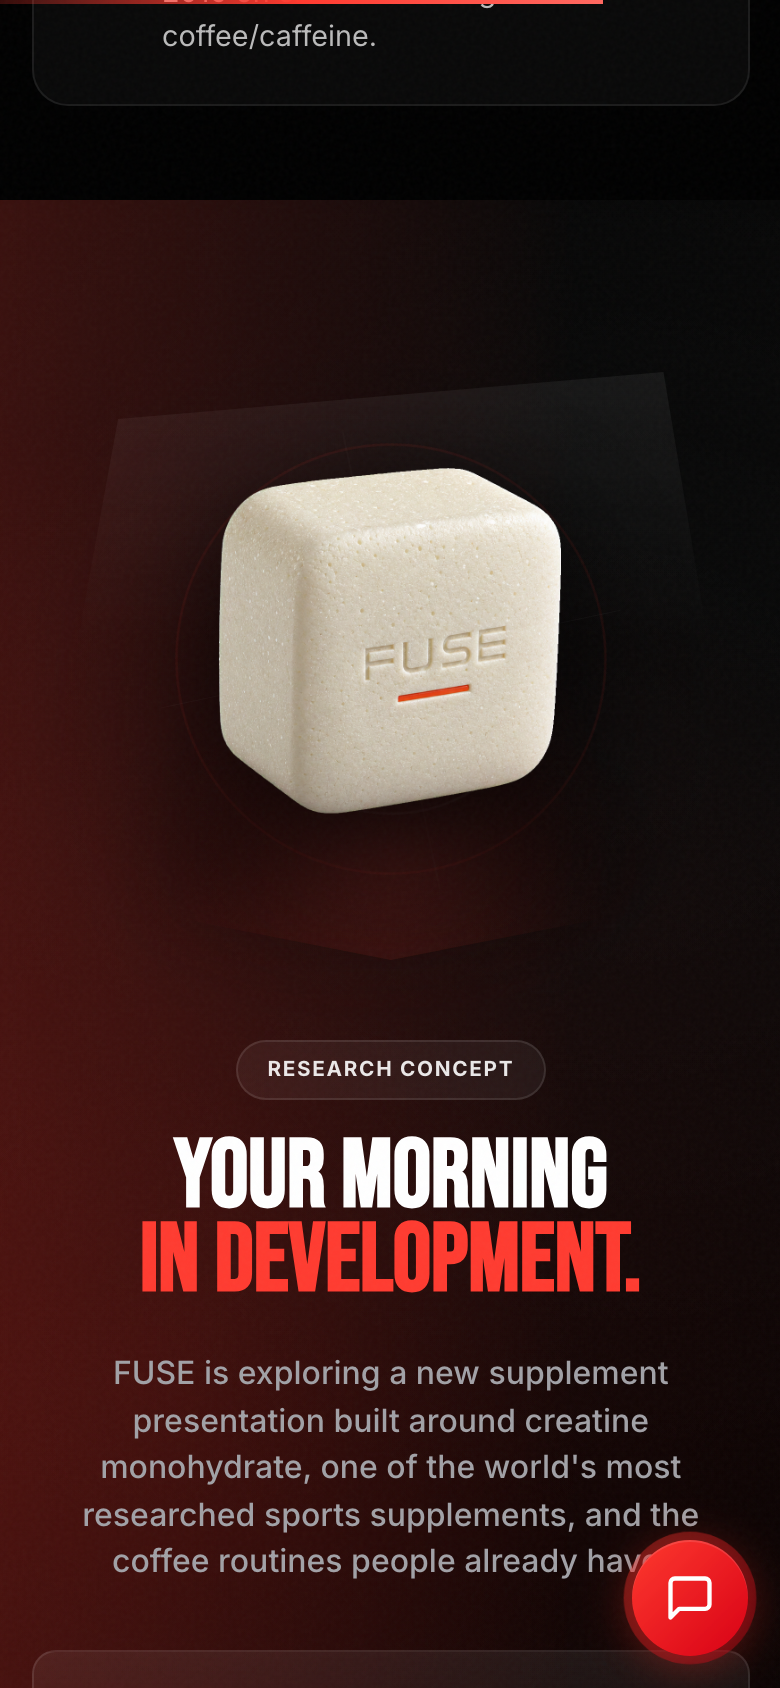
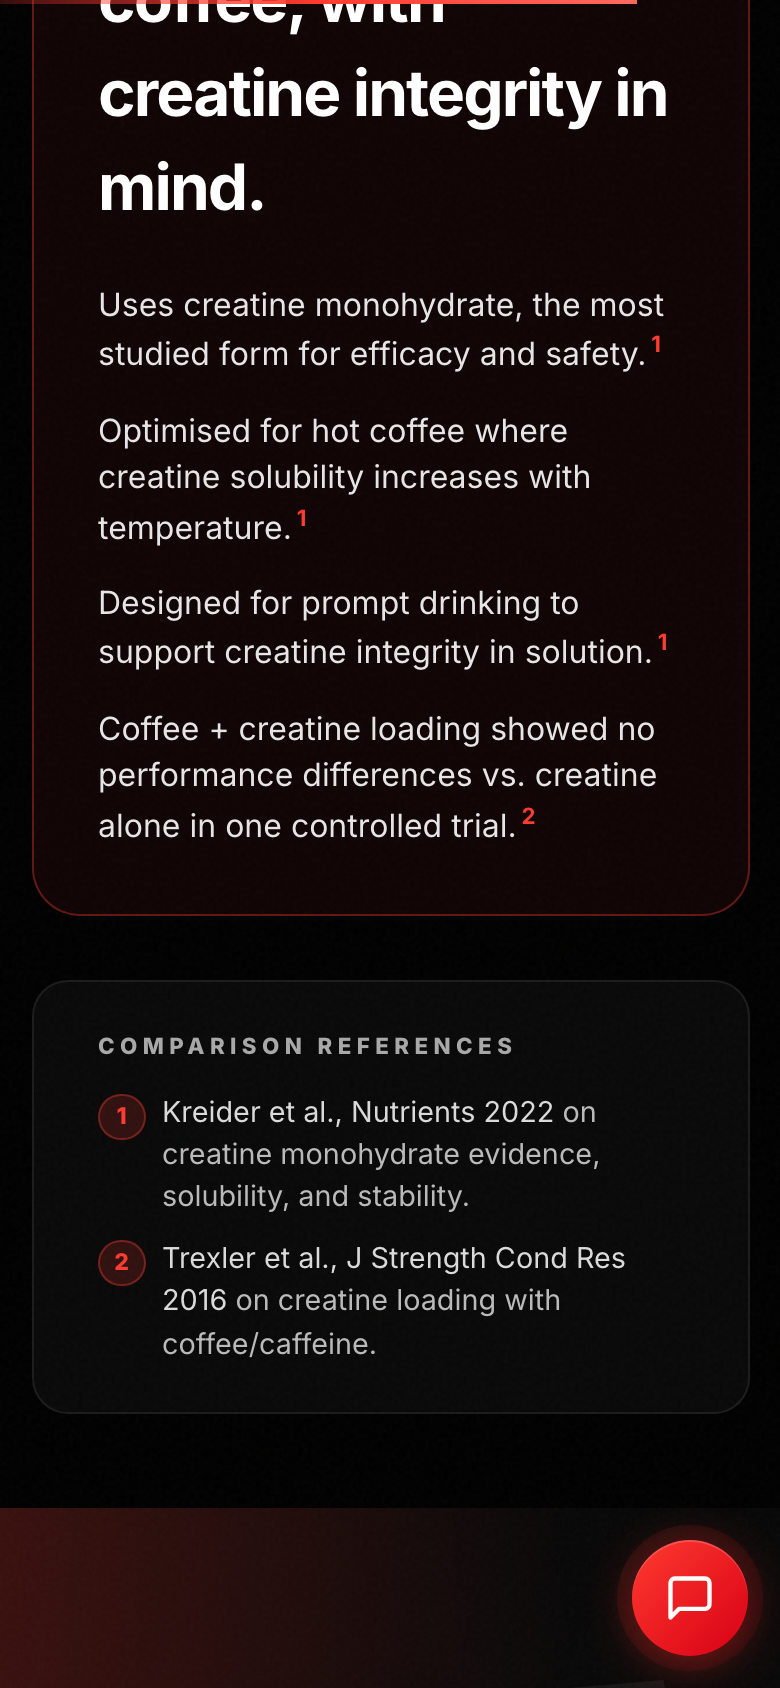
Update research lab motion timing

diff --git a/js/research-lab.js b/js/research-lab.js
@@ -110,6 +110,7 @@
         return {
             walkDuration,
             stepDuration,
+            travelDuration: 1800 + (seed % 8) * 260,
             delay: -((seed * 41 + labClock * 97) % walkDuration),
             stepDelay: -((seed * 67 + labClock * 53) % stepDuration),
         };
@@ -364,6 +365,11 @@
                 const fallbackMotion = motionFor(agent.id, state.data.labClock);
                 const walkDuration = clamp(motion.walkDuration || fallbackMotion.walkDuration, 700, 2600);
                 const stepDuration = clamp(motion.stepDuration || fallbackMotion.stepDuration, 520, 1500);
+                const travelDuration = clamp(
+                    motion.travelDuration || fallbackMotion.travelDuration,
+                    1400,
+                    4200
+                );
                 const walkDelay = clamp(motion.delay || -(seed * 37), -1600, 0);
                 const stepDelay = clamp(motion.stepDelay || -(seed * 53), -1200, 0);
                 const facing = pathX < -1 ? -1 : 1;
@@ -371,7 +377,7 @@
                 return `
                     <div
                         class="world-agent${active ? ' is-active' : ''}${isSpeaking ? ' is-speaking' : ''}"
-                        style="--x: ${x}; --y: ${y}; --depth: ${Math.round(y)}; --agent-color: ${escapeHtml(agent.color)}; --path-length: ${pathLength}px; --path-angle: ${pathAngle}rad; --walk-duration: ${walkDuration}ms; --step-duration: ${stepDuration}ms; --walk-delay: ${walkDelay}ms; --step-delay: ${stepDelay}ms; --facing: ${facing}"
+                        style="--x: ${x}; --y: ${y}; --depth: ${Math.round(y)}; --agent-color: ${escapeHtml(agent.color)}; --path-length: ${pathLength}px; --path-angle: ${pathAngle}rad; --walk-duration: ${walkDuration}ms; --step-duration: ${stepDuration}ms; --travel-duration: ${travelDuration}ms; --walk-delay: ${walkDelay}ms; --step-delay: ${stepDelay}ms; --facing: ${facing}"
                     >
                         <span class="world-agent-core">${labCharacterMarkup(agent, 'world')}</span>
                         <span class="agent-label">${escapeHtml(agent.name.replace(/^Dr\\.\\s+/, '').split(' ')[0])}</span>

diff --git a/api/_lib/research-lab-state.js b/api/_lib/research-lab-state.js
@@ -385,8 +385,9 @@ function createAgents(labClock = 0, currentExperiment = experimentTemplates[0]) 
         const pull = active ? 0.82 : 0.18 + phase * 0.68;
         const drift = active ? 0 : Math.sin(labClock * 0.73 + seed) * (0.8 + (seed % 4) * 0.28);
         const needsSeed = labClock + index * 7;
-        const walkDuration = 760 + (seed % 7) * 115;
-        const stepDuration = 520 + (seed % 5) * 95;
+        const walkDuration = 920 + (seed % 9) * 170;
+        const stepDuration = 620 + (seed % 6) * 120;
+        const travelDuration = 1800 + (seed % 8) * 260;
 
         return {
             ...agent,
@@ -406,6 +407,7 @@ function createAgents(labClock = 0, currentExperiment = experimentTemplates[0]) 
                 phase: Number(phase.toFixed(2)),
                 walkDuration,
                 stepDuration,
+                travelDuration,
                 delay: -((seed * 37 + labClock * 113) % walkDuration),
                 stepDelay: -((seed * 53 + labClock * 71) % stepDuration),
             },